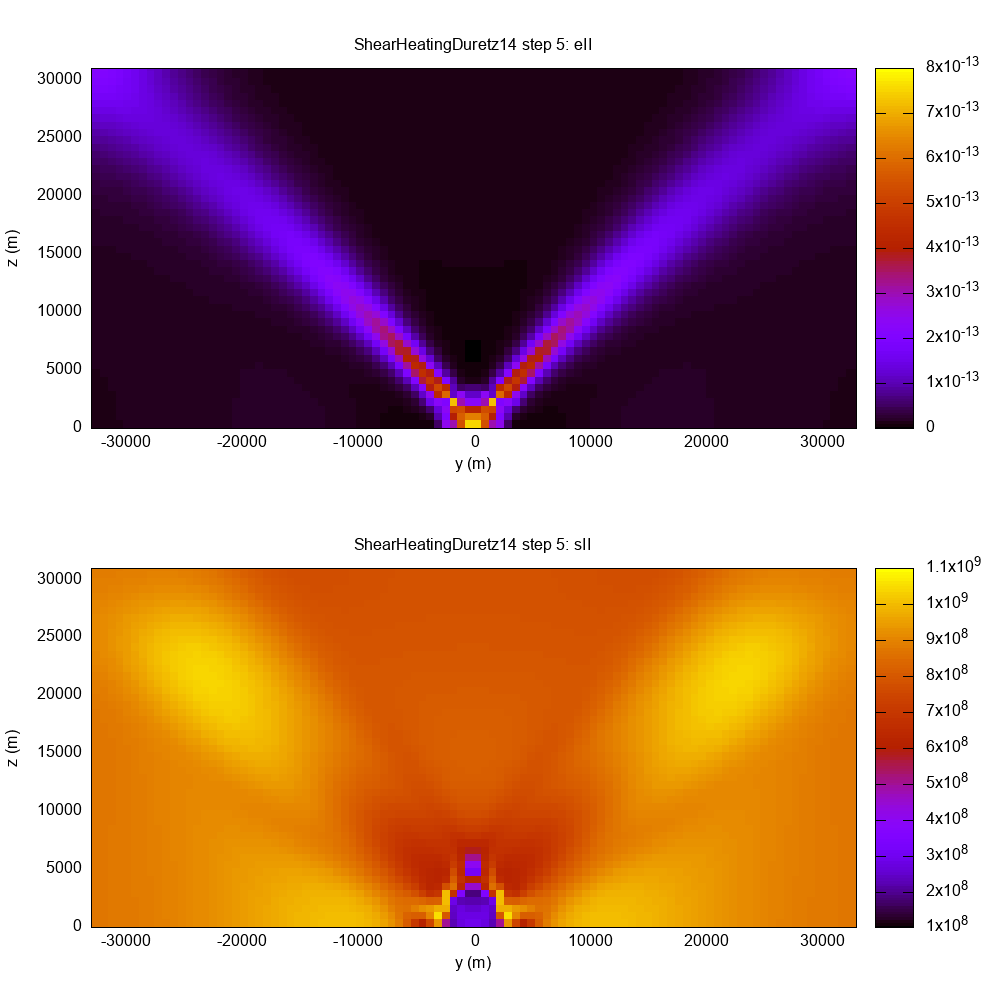
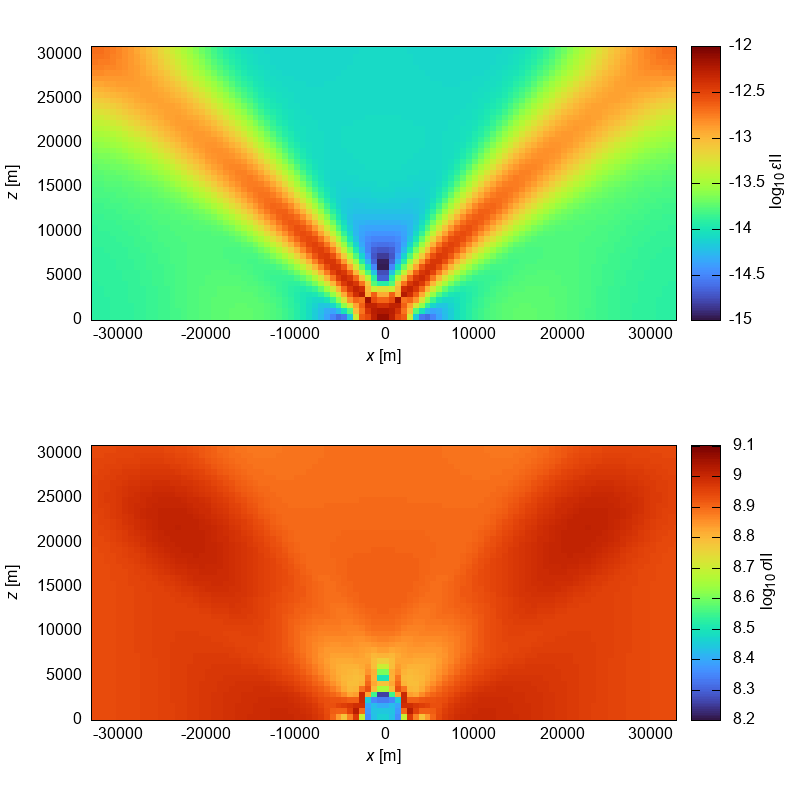
change shearheating

diff --git a/VISUAL_TESTS/ShearHeatingDuretz14.cpp b/VISUAL_TESTS/ShearHeatingDuretz14.cpp
@@ -32,7 +32,7 @@ void PlotShearHeatingDuretz14Reference() {
   myfile.open("ShearHeatingDuretz14.dat");
   for (int j = 0; j < nz - 1; j++) {
     for (int i = 0; i < nx - 1; i++) {
-      myfile << xcCoord[i] << '\t' << zcCoord[j] << '\t' << eII(i, j) << '\t' << sII(i, j) << std::endl;
+      myfile << xcCoord[i] << '\t' << zcCoord[j] << '\t' << log10(eII(i, j)) << '\t' << log10(sII(i, j)) << std::endl;
     }
   }
   myfile.close();

diff --git a/VISUAL_TESTS/readme.md b/VISUAL_TESTS/readme.md
@@ -1,6 +1,6 @@
 # Visual Tests
 
-Last run date: 2022-09-21.10:08:35
+Last run date: 2022-09-21.11:37:12
 
 ## Usage 
 
